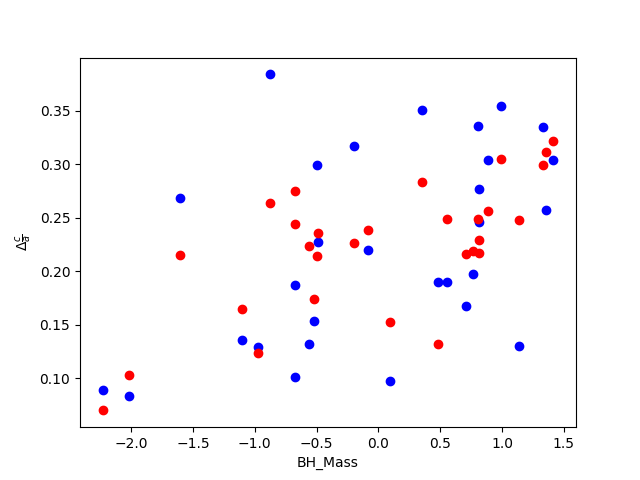
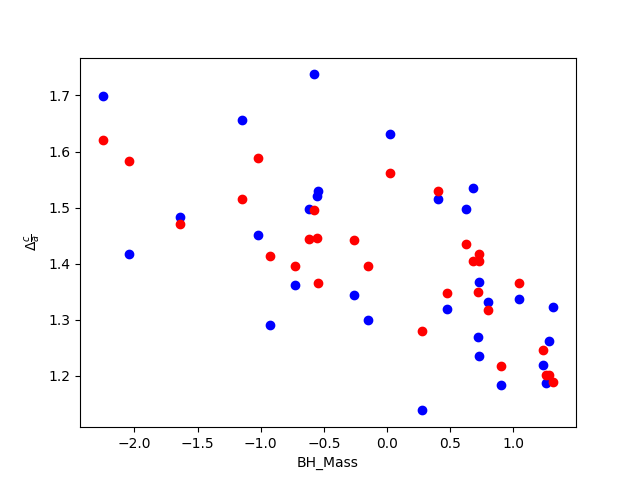
Linear model MCMC correlations

diff --git a/Code/effect_of_gas.py b/Code/effect_of_gas.py
@@ -1,3 +1,6 @@
+#import matplotlib
+#matplotlib.use('Agg')
+
 ########################################################################################################
 ##### THIS SCRITP IS FOR READING THE SUMARY OF IMPORTANT QUANTITIES FOR DM HALO SHAPE               ####
 ##### READS:                                                                                        ####
@@ -60,12 +63,26 @@ def main():
     # Important quantities (normalized)
     GasDiskRad = par['GasDiskRad']               # halfmass radius of gas
     StarDiskRad = par['StellarDiskRad']          # Same for stellar mass     
-    SFRD = par['SFR']/(StarDiskRad**2)           # Star formation ratio density
-    gas_den = par['MassGas']/(GasDiskRad**2)     # Mass densities
-    star_den = par['MassStars']/(StarDiskRad**2)
-    BH_den = par['MassBH']/(StarDiskRad**2)
-    bar_frac = (par['MassGas']+par['MassStars'])/par['MassDM'] # The baryonic fraction
+    gas_den = par['MassGas']#/(GasDiskRad**2)     # Mass densities
+    star_den = par['MassStars']#/(StarDiskRad**2)
+    BH_den = par['MassBH']#/(StarDiskRad**2)
+    bar_frac = (par['MassGas']+par['MassStars'])/(par['MassDM']+par['MassGas']+par['MassStars']) # The baryonic fraction
     
+    '''
+    import matplotlib.pyplot as plt
+    
+    plt.plot(StarDiskRad,bar_frac, 'ro')
+    plt.xlabel('Star Rad')
+    plt.ylabel('Baryonic Fraction')
+    plt.savefig('./pics/Baryons_plots/StarRad_barfrac.png')
+    plt.close()
+    
+    plt.plot(np.log10(star_den+gas_den),bar_frac, 'ro')
+    plt.xlabel('Star mass')
+    plt.ylabel('Baryonic Fraction')
+    plt.savefig('./pics/Baryons_plots/StarMass_barfrac.png')
+    plt.close()
+    '''
     # The disk directions 
     disk_vec = params.T[-3:].T
 
@@ -128,34 +145,173 @@ def main():
     # Defines Sphericity
     asph_MHD = asphericity(axesMHD) #shape: (nhalos,5)
     asph_DM  = asphericity(axesDM)
-    y = (asph_MHD - asph_DM)[:,0] # 0 -> only calculated at 0.125 Rvir
+    #y = (asph_MHD - 0*asph_DM)[:,1] # 0 -> only calculated at 0.125 Rvir
     
     #y1 = axesMHD[:,0,1]/axesMHD[:,0,0] # this is b/a MHD for all haloes
-    #y2 = axesMHD[:,0,2]/axesMHD[:,0,0] # c/a MHD
-    
-    # The X values (Parameters of the fit)
-    
+    y = ((axesMHD[:,0,2]/axesMHD[:,0,0]))**(-1) #- (axesDM[:,0,2]/axesDM[:,0,0])) # c/a MHD
+
     # Just to see if the increase is related to the unperturbed state of the halo
-    #x1 = axesDM[:,0,1]/axesDM[:,0,0] #b/a DM (q)
-    #x2 = axesDM[:,0,2]/axesDM[:,0,0] #c/a MHD (s)
-    X = np.array([GasDiskRad,StarDiskRad,np.log10(SFRD),np.log10(gas_den),np.log10(star_den),np.log10(BH_den),bar_frac]).T
+    x1 = axesDM[:,0,1]/axesDM[:,0,0] #b/a DM (q)
+    x2 = axesDM[:,0,2]/axesDM[:,0,0] #c/a MHD (s)
+    x1 = 1./x1
+    x2 = 1./x2
+    X = np.array([GasDiskRad,StarDiskRad,np.log10(gas_den),np.log10(star_den),np.log10(BH_den),bar_frac,x1,x2]).T
         
-    Xnames = ['Gas Radius','StarDisk Radius','SFR density','Gas density','Star density','BH density',
-                'Baryonic fraction']
-    Xlog = [0,0,1,1,1,1,0,0,0,0] # To know if scales are logarithm
+    Xnames = ['Gas Radius','StarDisk Radius','Gas density','Star density','BH density',
+                'Baryonic fraction','q','s']
+    Xlog = [0,0,1,1,1,0,0,0,0] # To know if scales are logarithm
+    
     
     # Halos to discard
-    i_discard = np.where(y<0.1)[0]
-    # i_discard = [10,13,16]
+    #i_discard = np.where(y<0.1)[0]
+    i_discard = [10]
     badX = X[i_discard]
     bady = y[i_discard]
     X = np.delete(X,i_discard,axis=0)
     y = np.delete(y,i_discard)
+    
+    #SVReg(X,(y),Xnames=Xnames, yname = 'Delta sphericity', Xlog = Xlog, badX=badX, bady=bady)
+      
+    # Mean values
+    meanX = np.mean(X, axis = 0)
+    # STD but with the signs of the coeficients
+    sigmaX = np.std(X, axis = 0)
+    
+    #X = ((X-meanX)/sigmaX)
+
+
+    MCMC(X,y,X_names=Xnames)
+
+    
+    
+    '''
+    print meanX[1]
+     
+    from scipy.optimize import curve_fit
+    def fun( x,a,b,c,n): 
+        return a/((x-b)**n)+c
+    popt,pcov = curve_fit(fun, X[:,1],X[:,-1])
         
-    SVReg(X,y,Xnames=Xnames, yname = 'Delta sphericity', Xlog = Xlog, badX=badX, bady=bady)
+    #scatter3d(X[:,-2], X[:,-1], y, y)    
+    plt.plot(X[:,1],X[:,-1],'ro')
+    xspc = np.linspace(min(X[:,1])-0.1, max(X[:,1])+0.1, 100)
+    print popt
+    plt.plot(xspc,fun(xspc,popt[0],popt[1],popt[2],popt[3]))   
+
+    plt.show()
+    '''
 
 
 
+def MCMC(X,y,X_names='',yname=''):
+    
+    # Basic imports
+    import emcee
+    
+    
+    
+    ##########################
+    ##### SETUP FUNCTIONS ####
+    ##########################
+    print X.shape
+    X = X.T
+    
+    # The model to fit parameters
+    # Asume linear model and power law for baryionic fraction
+    # Encode arguments of this function in theta
+    def model(theta,X):
+
+        theta = np.array(theta)
+        #print np.multiply(theta[:-1][:,np.newaxis],X)
+        val = np.sum(np.multiply(theta[:-1][:,np.newaxis],X),axis=0)+ theta[-1]
+        #print val
+        return val
+
+    # Define the ln of the likelihood.
+    # Just assume exponential of the squared error
+    def lnlike(theta, X, y, yerr=1):
+        
+        y_mod = model(theta,X)
+        inv_sigma2 = 1.0/(yerr**2) #+ model**2*np.exp(2*lnf))      -> This is more sophisticated
+        return -0.5*(np.sum((y-y_mod)**2*inv_sigma2 - np.log(inv_sigma2)))
+    
+    # The log of the prior probability
+    # All variables are free to choose (mainly slopes)
+    def lnprior(theta,X):
+        
+        #a0,a1,c = theta
+        if False : # keep power term positive
+            return -np.inf
+        return 0 # no restrictions
+    
+    # The log of the final probability of the model    
+    def lnprob(theta, X, y, yerr=1):
+        lp = lnprior(theta,X)
+        if not np.isfinite(lp): # Not needed but anyway jic
+            return -np.inf
+        return lp + lnlike(theta, X, y, yerr)
+    
+    # Now we find the maximum likelihood
+    import scipy.optimize as op
+    nll = lambda x,*t: model([t[i] for i in range(len(X)+1)],x)
+    print len(X.T),len(y)
+    x = np.transpose(X)
+    popt,pcov = op.curve_fit(nll,X,y,p0=0*np.ones(len(X)+1))
+    
+    import matplotlib.pyplot as plt     
+    #scatter3d(X[-2], X[-1], y, y)    
+    yopt = model(popt,X)
+    xlabs = X_names
+    for i in range(len(X)):
+        plt.plot(X[i],y,'bo')
+        plt.plot(X[i],yopt,'ro')
+        plt.ylabel(r'$ \frac{a}{c}$')
+        plt.xlabel(xlabs[i])       
+        plt.savefig('./pics/Baryons_plots/'+xlabs[i]+'.png')
+        plt.close()
+    #xspc = np.linspace(min(X[:,1])-0.1, max(X[:,1])+0.1, 100)
+    #print popt
+    #plt.plot(xspc,fun(xspc,popt[0],popt[1],popt[2],popt[3]))   
+
+    
+    
+    
+    
+    
+    print popt
+    # We initialize some walkers around the maximum likelihood
+    ndim, nwalkers = len(X)+1, 100
+    pos = [popt + (1e-6)*(1-2*np.random.randn(ndim)) for i in range(nwalkers)]
+    
+    # Set up the sampler
+    sampler = emcee.EnsembleSampler(nwalkers, ndim, lnprob, args=(X, y, 1.0))
+    
+    # Run nwalks 
+    sampler.run_mcmc(pos, 1000)
+    
+    # Retrieve chains after stabilization
+    samples = sampler.chain[:, 50:, :].reshape((-1, ndim))
+    
+    #print result
+    import corner    
+    fig = corner.corner(samples, labels= X_names+['$Intercept$'], truths = popt)
+    
+    results = map(lambda v: (v[1], v[2]-v[1], v[1]-v[0]),zip(*np.percentile(samples, [16, 50, 84],axis=0)))
+    
+    for el in zip(results,X_names+['Intercept']):
+        print el
+    
+    # Tries to create directory
+    path = './pics/Baryons_plots/'
+    try:
+        os.makedirs(path)
+    except OSError:
+        print("Directory already exists")
+    fig.savefig(path+'MCMC_mixed.png')
+    
+    
+
+    
 
 # Performs a Support vector regression according the given yparams and xparams
 # Plots important projections over the x space to see accuracy of fit.
@@ -164,16 +320,13 @@ def SVReg(X,y,Xnames='',yname='',Xlog = None, badX=None, bady=None):
     
     import matplotlib.pyplot as plt
     # Import scikit learn
-    from sklearn.svm import SVR
-    from sklearn.ensemble import RandomForestRegressor
-    from sklearn.linear_model import LassoCV
-    
-    # We apply SVR 
-    svr = SVR(kernel='linear', C = 1,epsilon = 0.075)
+    from sklearn.ensemble import RandomForestClassifier
+    from sklearn.linear_model import Lasso
+
     # And random forest
-    rf = RandomForestRegressor(n_estimators=100)
+    rf = RandomForestClassifier(n_estimators=100)
     # And LassoCV
-    lasso = LassoCV()
+    lasso = Lasso(alpha =0.01)
     
     
     # Mean values
@@ -184,50 +337,86 @@ def SVReg(X,y,Xnames='',yname='',Xlog = None, badX=None, bady=None):
     X = ((X-meanX)/sigmaX)
     badX =  ((badX-meanX)/sigmaX)
     
+    # Labels for random forest
+    mid1 = np.percentile(y,33)
+    mid2 = np.percentile(y,66)
+    labels = (y>mid2).astype(np.int)
+    #labels+= (y>mid1).astype(np.int)
+    print(labels)
+    
     # Asuming array x is of size (npoints,mparams) and array y is of size (npoints)
-    svr.fit(X,y)
-    rf.fit(X,y)
+
     lasso.fit(X,y)
+    
+    rf.fit(X,labels)
+    
+    fit_labs = rf.predict(X)
     
     # Linspaces for each variable
     linspcX = np.array([np.linspace(min(x)-0.01,max(x)+0.01,100) for x in X.T])
     #print Xs
     
+    y_data_lasso = lasso.predict(X) 
+    
     for i in range(len(Xnames)):
         # Names and slopes
         print Xnames[i],
         print '\n',
-        print 'Mean',svr.coef_[0,i]
-        print 'Feature Importance',rf.feature_importances_[i],'\n'
+        print 'Slope',lasso.coef_[i]
+        print 'Feature Importance',rf.feature_importances_[i]
+        print 'Feature correlation',np.corrcoef(X[:,i],y)[0,1],'\n'
         
-        # Plot dataset projection over variable i
+        #plt.plot(X[:,1],X[:,i], 'bo')
+        
+        # Plot dataset projection over variable 
+        
         plt.plot(X[:,i],y,'bo')
+        
         plt.plot(badX[:,i],bady,'ro')
         
+        #plt.hlines(mid, min(linspcX[i]), max(linspcX[i]), linestyle='-.')
         # We produce a generic space of with the linspace of the projected variable
         # and the mean in the other variables.
         # We also take the uppper and lower bounds in the other variables
         
-        X_proj_mean = np.zeros((100,len(meanX)))
-        X_proj_mean[:,i] = linspcX[i]
+        #X_proj_mean = np.zeros((100,len(meanX)))
+        #X_proj_mean[:,i] = linspcX[i]
 
-        yproj_svr = svr.predict(X_proj_mean)
-        yproj_rf = rf.predict(X_proj_mean)
-        yproj_lasso = lasso.predict(X_proj_mean)
+        #yproj_svr = svr.predict(X_proj_mean)
+        #yproj_rf = rf.predict(X_proj_mean)
+        #yproj_lasso = lasso.predict(X_proj_mean)
         
-        plt.plot(linspcX[i],yproj_svr,'black',linewidth=1.2,label='SVR') # Mean
-        plt.plot(linspcX[i],yproj_rf,'g',linewidth=1.2,label='Random Forest') # Mean
-        plt.plot(linspcX[i],yproj_lasso,'r',linewidth=1.2,label='Lasso') # Mean
+        #plt.plot(linspcX[i],yproj_svr,'black',linewidth=2,label='SVR') # Mean
+        #plt.plot(X[:,i],y_data_svr,'g*',label='SVR_data') # Mean
+        
+        
+        
+        #plt.plot(linspcX[i],yproj_lasso,'r',linewidth=2,label='Lasso') # Mean
+        #plt.plot(X[:,i],y_data_lasso,'m^',linewidth=2,label='Lasso_data') # Mean
 
         plt.legend(loc=0)
+        
         plt.xlabel(Xnames[i])
-        plt.show()
-        plt.close() 
-        
-        
-      
-    print svr.coef_,svr.intercept_          
+        #plt.show()
+        plt.close()
+    
+    print "FIN"     
 
+
+def scatter3d(x,y,z, cs, colorsMap='jet'):
+    import matplotlib
+    import matplotlib.pyplot as plt
+    import matplotlib.cm as cmx
+    from mpl_toolkits.mplot3d import Axes3D
+    cm = plt.get_cmap(colorsMap)
+    cNorm = matplotlib.colors.Normalize(vmin=min(cs), vmax=max(cs))
+    scalarMap = cmx.ScalarMappable(norm=cNorm, cmap=cm)
+    fig = plt.figure()
+    ax = Axes3D(fig)
+    ax.scatter(x, y, z, c=scalarMap.to_rgba(cs))
+    scalarMap.set_array(cs)
+    fig.colorbar(scalarMap)
+    plt.show()
     
 def simple_plot(x,y,xlabel,ylabel,title, mode = 'scatter', logx = False, folder = ''):
     
@@ -278,7 +467,7 @@ def read_csv(filename, skip_header = 1):
 # Triaxialities T = (1-(b/a)^2)/(1-(c/a)^2) 
 # (T = 0 --> Oblate ) (T = 1 --> Prolate ) (T = 0.5 --> Max Triax )
 def get_T(axes):
-   return (axes[:,:,0]**2-axes[:,:,1]**2)/(axes[:,:,0]**2-axes[:,:,2]**2)               
+    return (axes[:,:,0]**2-axes[:,:,1]**2)/(axes[:,:,0]**2-axes[:,:,2]**2)               
         
 # Calculates a measure of asphericity
 # Returns the 1 minus actual distance from the point in the plane (c/a,b/a) to the point (1,1) in the triaxiality plane
@@ -411,16 +600,16 @@ def polar_graphs(pdf,vecs,disk_vec,radii,title, radii_vals = None, mode = 'all_i
             midp = (np.pi/180.)*midp
             majp = (np.pi/180.)*majp
             
-            print "Minor: "
-            print vecs[0,[1,0,2],:].dot(vecs[i,2,:])
-            print to_Cartesians(mint,minp)
-            print "Mid: "
-            print vecs[0,[1,0,2],:].dot(vecs[i,1,:])
-            print to_Cartesians(midt,midp)
-            print "Major: "
-            print vecs[0,[1,0,2],:].dot(vecs[i,0,:])
-            print to_Cartesians(majt,majp)
-            print "____________________________________________________"
+            #print "Minor: "
+            #print vecs[0,[1,0,2],:].dot(vecs[i,2,:])
+            #print to_Cartesians(mint,minp)
+            #print "Mid: "
+            #print vecs[0,[1,0,2],:].dot(vecs[i,1,:])
+            #print to_Cartesians(midt,midp)
+            #print "Major: "
+            #print vecs[0,[1,0,2],:].dot(vecs[i,0,:])
+            #print to_Cartesians(majt,majp)
+            #print "____________________________________________________"
  
             
             #print mint, ec[int(mint>90)], int(mint>90), int(mint<90), ec
